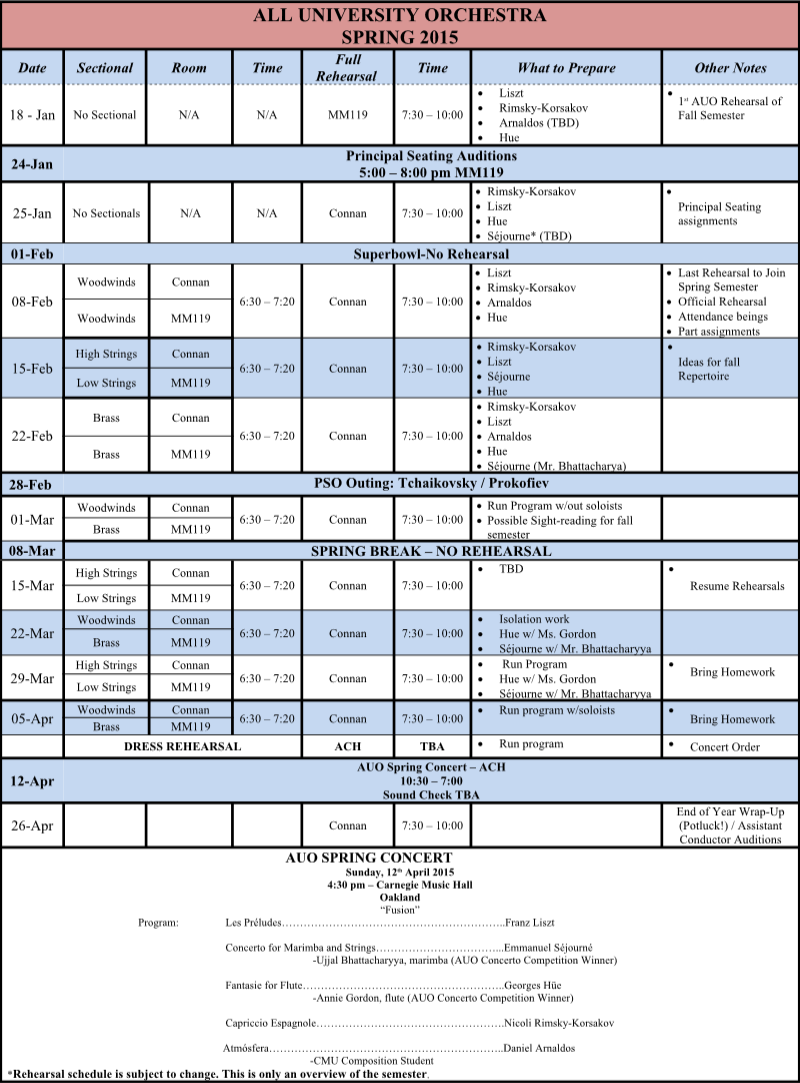
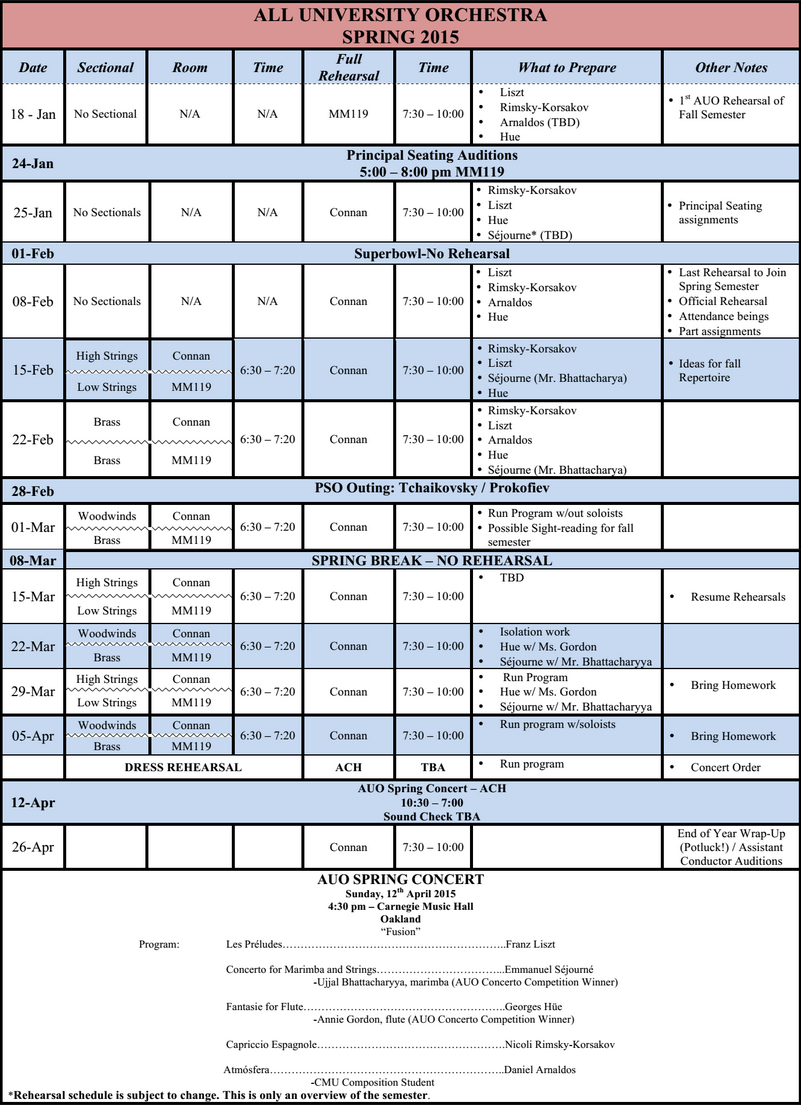
Updated schedule and added Laurens photo

Changed region(s): [[0.0, 0.0, 1.0, 0.9751], [0.0, 0.9446, 0.5625, 1.0], [0.1875, 0.8532, 0.2188, 0.8837]]

diff --git a/contact.html b/contact.html
@@ -144,7 +144,7 @@ show_in_nav: true
 <hr />
     <div class="row officer">
         <div class="large-2 hide-for-small  columns officerpic" >
-			<img src="/img/officers/nophoto.png" />
+			<img src="/img/officers/laurenoneil.png" />
 		</div>
         <div class="small-12 large-10 columns officerinfo" >
             <h4>Lauren O'Neil</h4>
